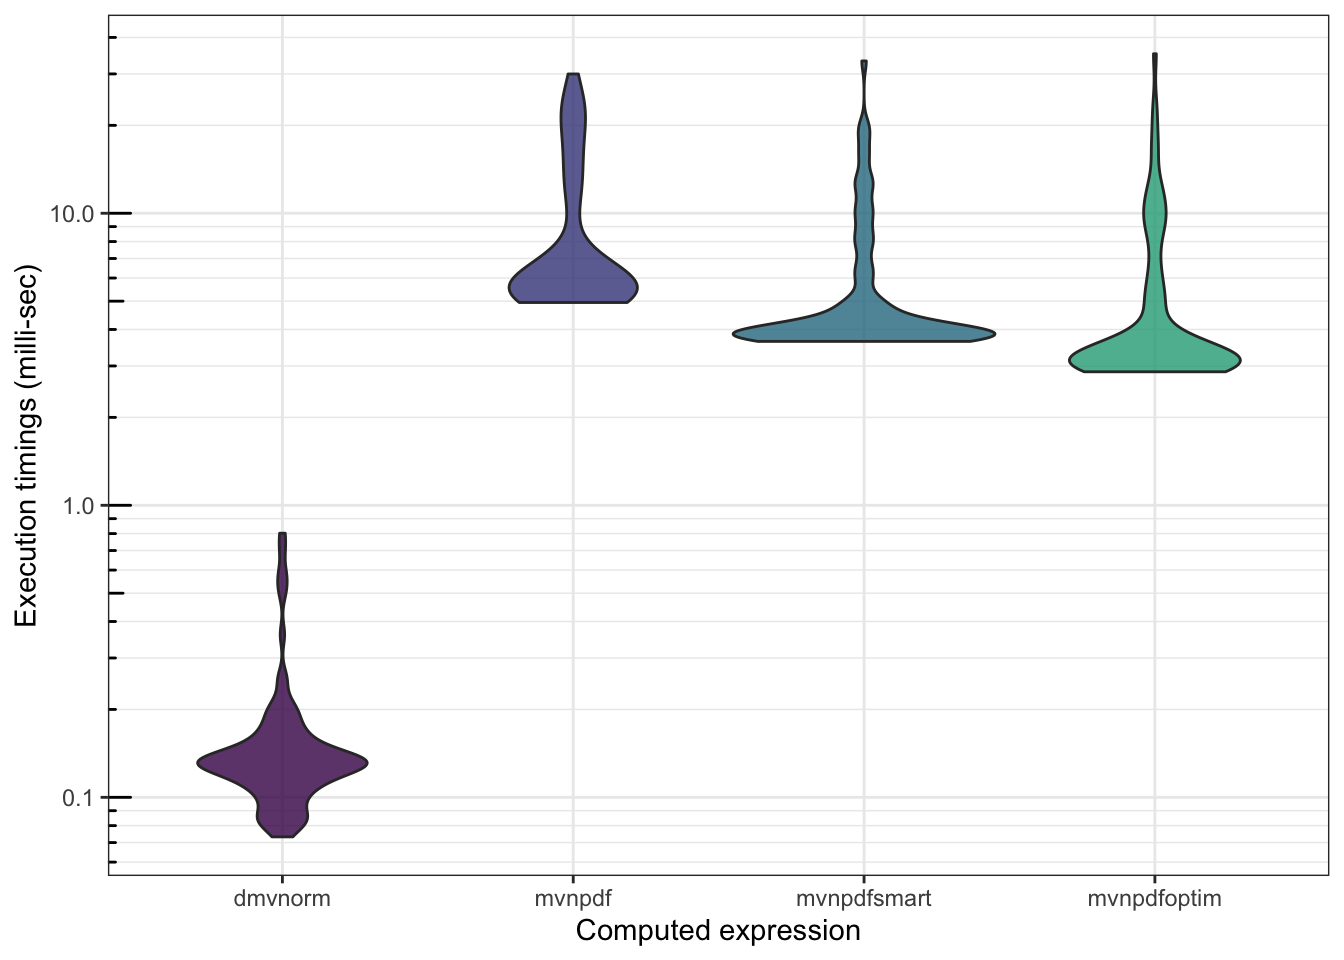
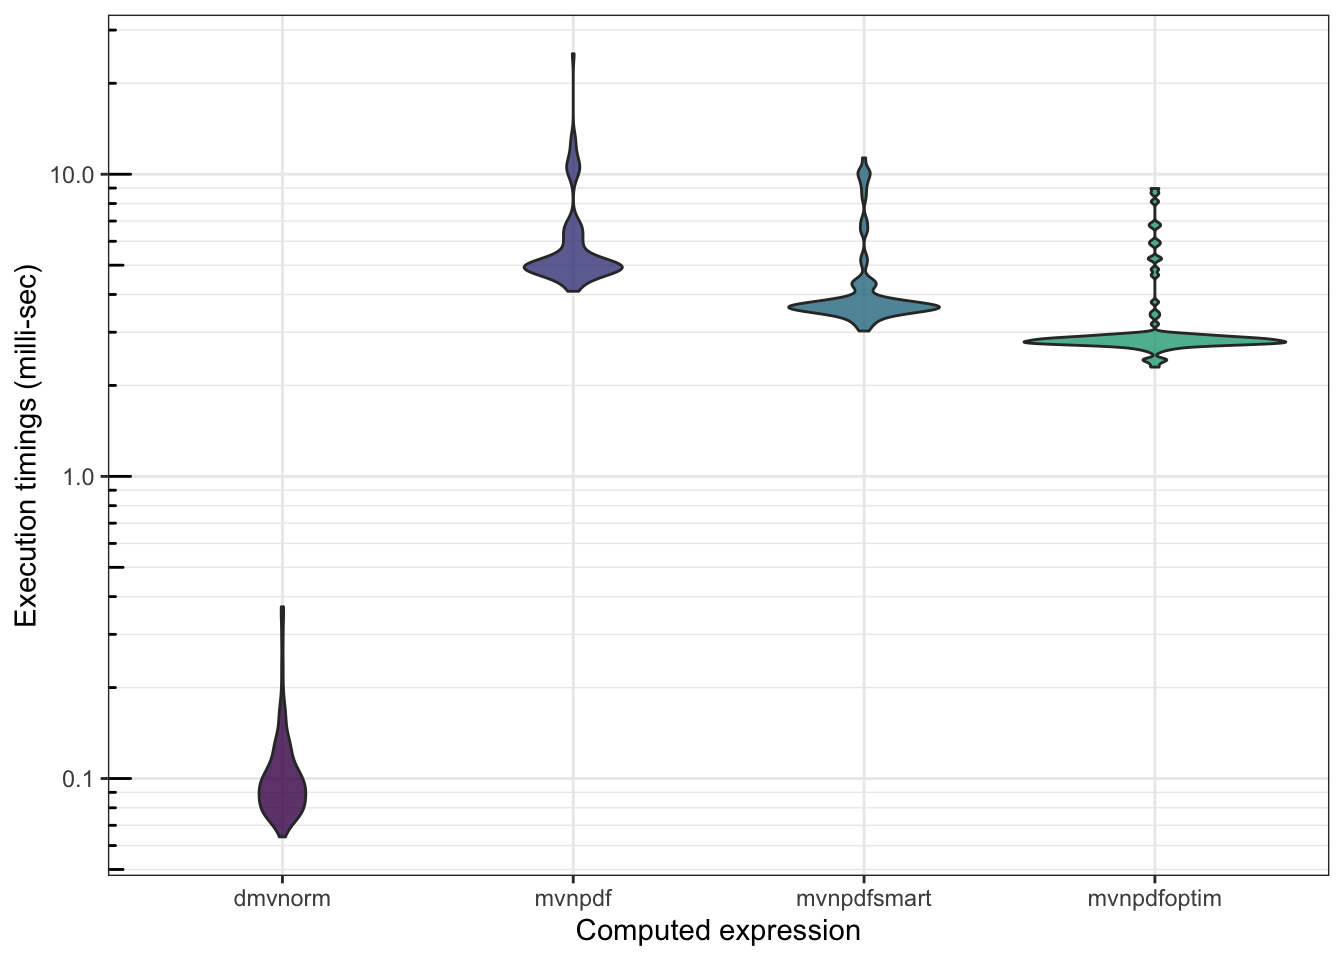
final June 2022

diff --git a/_book/rcpp-or-how-to-easily-embed-c-code-into-a-package.html b/_book/rcpp-or-how-to-easily-embed-c-code-into-a-package.html
@@ -118,17 +118,17 @@ package:</p></li>
 <span class="va">mb</span></code></pre></div>
 <pre><code>## Unit: microseconds
 ##                                                            expr      min
-##              mvtnorm::dmvnorm(matrix(1.96, nrow = n, ncol = 2))   65.124
-##       mvnpdf(x = matrix(1.96, nrow = 2, ncol = n), Log = FALSE) 4385.828
-##  mvnpdfsmart(x = matrix(1.96, nrow = 2, ncol = n), Log = FALSE) 3123.313
-##  mvnpdfoptim(x = matrix(1.96, nrow = 2, ncol = n), Log = FALSE) 2505.921
-##  mvnpdf_invC(x = matrix(1.96, nrow = 2, ncol = n), Log = FALSE) 3199.622
-##         lq      mean    median        uq       max neval
-##    99.4615  194.6067  118.7655   155.223  1212.833   100
-##  5086.8085 8445.4008 5312.9740  6765.887 34013.310   100
-##  3719.0570 5773.8675 3936.7650  4319.208 41610.932   100
-##  3025.0395 5381.2065 3247.7600  7305.590 19374.333   100
-##  3766.4930 6749.5553 3953.5380 10025.012 20069.787   100</code></pre>
+##              mvtnorm::dmvnorm(matrix(1.96, nrow = n, ncol = 2))   71.118
+##       mvnpdf(x = matrix(1.96, nrow = 2, ncol = n), Log = FALSE) 4753.473
+##  mvnpdfsmart(x = matrix(1.96, nrow = 2, ncol = n), Log = FALSE) 3181.776
+##  mvnpdfoptim(x = matrix(1.96, nrow = 2, ncol = n), Log = FALSE) 2617.668
+##  mvnpdf_invC(x = matrix(1.96, nrow = 2, ncol = n), Log = FALSE) 3181.072
+##        lq      mean   median        uq       max neval
+##    86.828  114.8744  100.802  114.7005   438.543   100
+##  5005.557 6122.8779 5102.894 5871.4550 25992.031   100
+##  3689.941 4477.3166 3745.430 3927.6450 13121.594   100
+##  2895.649 3303.7776 2956.511 3096.8575  8617.597   100
+##  3696.435 4223.8946 3771.915 3870.8330 16088.644   100</code></pre>
 <div class="inline-figure"><img src="AdvancedRcourse_dev_perf_files/figure-html/unnamed-chunk-31-1.png" width="672"></div>
 <div class="sourceCode" id="cb31"><pre class="downlit sourceCode r">
 <code class="sourceCode R"><span class="fu">profvis</span><span class="fu">::</span><span class="fu"><a href="https://rdrr.io/pkg/profvis/man/profvis.html">profvis</a></span><span class="op">(</span><span class="fu">mvnpdfoptim</span><span class="op">(</span>x<span class="op">=</span><span class="fu"><a href="https://rdrr.io/r/base/matrix.html">matrix</a></span><span class="op">(</span><span class="fl">1.96</span>, 
@@ -149,7 +149,7 @@ package:</p></li>
 </ol>
 </blockquote>
 <p>You can download our proposal for <code>mvnpdfsmartC.cpp</code> <a href="https://heavyr.borishejblum.science/AdvancedRcourse_dev_perf_files/mvnpdfsmartC.cpp">here</a>.</p>
-<p>For additional (at the cost of code readability), you can have a look at our optimized Armadillo C++ implementation in <a href="https://heavyr.borishejblum.science/AdvancedRcourse_dev_perf_files/mvnpdfoptimC.cpp"><code>mvnpdfoptimC.cpp</code></a>.</p>
+<p>For (relatively small) additional speed gain (at the cost of code readability!), you can have a look at our optimized Armadillo C++ implementation in <a href="https://heavyr.borishejblum.science/AdvancedRcourse_dev_perf_files/mvnpdfoptimC.cpp"><code>mvnpdfoptimC.cpp</code></a>.</p>
 <div class="sourceCode" id="cb32"><pre class="downlit sourceCode r">
 <code class="sourceCode R"><span class="va">n</span> <span class="op">&lt;-</span> <span class="fl">1000</span>
 <span class="va">mb</span> <span class="op">&lt;-</span> <span class="fu"><a href="https://rdrr.io/pkg/microbenchmark/man/microbenchmark.html">microbenchmark</a></span><span class="op">(</span><span class="fu">mvtnorm</span><span class="fu">::</span><span class="fu"><a href="https://rdrr.io/pkg/mvtnorm/man/Mvnorm.html">dmvnorm</a></span><span class="op">(</span><span class="fu"><a href="https://rdrr.io/r/base/matrix.html">matrix</a></span><span class="op">(</span><span class="fl">1.96</span>, nrow <span class="op">=</span> <span class="va">n</span>, ncol <span class="op">=</span> <span class="fl">2</span><span class="op">)</span><span class="op">)</span>,
@@ -170,14 +170,14 @@ package:</p></li>
 ##                                             mvnpdf_invC(x = matrix(1.96, nrow = 2, ncol = n), Log = FALSE)
 ##  mvnpdfsmartC(x = matrix(1.96, nrow = 2, ncol = n), mean = rep(0,      2), varcovM = diag(2), Log = FALSE)
 ##  mvnpdfoptimC(x = matrix(1.96, nrow = 2, ncol = n), mean = rep(0,      2), varcovM = diag(2), Log = FALSE)
-##       min       lq      mean    median        uq       max neval
-##    75.917  110.387  197.9245  124.1960  157.4325  1256.935   100
-##  4931.640 5188.288 9275.1514 5373.7055 7844.4305 77858.099   100
-##  3612.515 3777.602 5501.5053 3972.8825 4712.0445 19561.479   100
-##  2826.213 3020.449 4884.5568 3207.6715 5140.8520 15737.090   100
-##  3607.748 3752.820 5388.6261 3994.1985 4849.5315 23388.501   100
-##    70.730   82.846  124.5476   90.8290  130.6830   691.755   100
-##    58.110   69.123  150.0763   78.3205  109.9820  4509.591   100</code></pre>
+##       min        lq       mean    median       uq       max neval
+##    65.007   88.8815  112.94501  102.7370  119.446   378.734   100
+##  4103.386 4877.7460 6564.95403 5034.1785 5572.334 78768.581   100
+##  2961.631 3590.1065 4469.34607 3730.5595 3884.968 15111.623   100
+##  2309.317 2767.0435 3100.71843 2896.2115 3019.818 10331.393   100
+##  2978.638 3605.9700 4457.68296 3735.8355 4164.860 11121.145   100
+##    67.470   74.8810   89.00683   81.5105   88.122   193.168   100
+##    56.216   60.0030   78.03703   66.3945   72.707   306.386   100</code></pre>
 <div class="inline-figure"><img src="AdvancedRcourse_dev_perf_files/figure-html/unnamed-chunk-34-1.png" width="672"></div>
 <p>Note that <code>Rcpp</code> functions can be used outside of a package architecture thanks to the <code><a href="https://rdrr.io/pkg/Rcpp/man/sourceCpp.html">Rcpp::sourceCpp()</a></code> function. But, as we have seen that it is always desirable to manage all of one’s code inside a package, it is unlikely that you will need this !</p>
 </div>

diff --git a/_book/take-home-messages.html b/_book/take-home-messages.html
@@ -6,14 +6,14 @@
 <meta name="viewport" content="width=device-width, initial-scale=1, shrink-to-fit=no">
 <title>Chapter 7 Take-home message(s) | Advanced  course</title>
 <meta name="author" content="Robin Genuer &amp; Boris Hejblum">
-<meta name="description" content="MAKE PACKAGES use git, at least locally for yourself if needed (i.e. after optimization of code itself), do not be afraid of using Rcpp and/or of parallelizing tour code">
+<meta name="description" content="MAKE PACKAGES! use git, at least locally for yourself if needed (i.e. after optimization of code itself), do not be afraid of using Rcpp and/or of parallelizing your code">
 <meta name="generator" content="bookdown 0.26 with bs4_book()">
 <meta property="og:title" content="Chapter 7 Take-home message(s) | Advanced  course">
 <meta property="og:type" content="book">
-<meta property="og:description" content="MAKE PACKAGES use git, at least locally for yourself if needed (i.e. after optimization of code itself), do not be afraid of using Rcpp and/or of parallelizing tour code">
+<meta property="og:description" content="MAKE PACKAGES! use git, at least locally for yourself if needed (i.e. after optimization of code itself), do not be afraid of using Rcpp and/or of parallelizing your code">
 <meta name="twitter:card" content="summary">
 <meta name="twitter:title" content="Chapter 7 Take-home message(s) | Advanced  course">
-<meta name="twitter:description" content="MAKE PACKAGES use git, at least locally for yourself if needed (i.e. after optimization of code itself), do not be afraid of using Rcpp and/or of parallelizing tour code">
+<meta name="twitter:description" content="MAKE PACKAGES! use git, at least locally for yourself if needed (i.e. after optimization of code itself), do not be afraid of using Rcpp and/or of parallelizing your code">
 <!-- JS --><script src="https://cdnjs.cloudflare.com/ajax/libs/clipboard.js/2.0.6/clipboard.min.js" integrity="sha256-inc5kl9MA1hkeYUt+EC3BhlIgyp/2jDIyBLS6k3UxPI=" crossorigin="anonymous"></script><script src="https://cdnjs.cloudflare.com/ajax/libs/fuse.js/6.4.6/fuse.js" integrity="sha512-zv6Ywkjyktsohkbp9bb45V6tEMoWhzFzXis+LrMehmJZZSys19Yxf1dopHx7WzIKxr5tK2dVcYmaCk2uqdjF4A==" crossorigin="anonymous"></script><script src="https://kit.fontawesome.com/6ecbd6c532.js" crossorigin="anonymous"></script><script src="libs/jquery-3.6.0/jquery-3.6.0.min.js"></script><meta name="viewport" content="width=device-width, initial-scale=1, shrink-to-fit=no">
 <link href="libs/bootstrap-4.6.0/bootstrap.min.css" rel="stylesheet">
 <script src="libs/bootstrap-4.6.0/bootstrap.bundle.min.js"></script><script src="libs/bs3compat-0.3.1/transition.js"></script><script src="libs/bs3compat-0.3.1/tabs.js"></script><script src="libs/bs3compat-0.3.1/bs3compat.js"></script><link href="libs/bs4_book-1.0.0/bs4_book.css" rel="stylesheet">
@@ -65,9 +65,9 @@
 <span class="header-section-number">7</span> <em>Take-home message(s)</em><a class="anchor" aria-label="anchor" href="#take-home-messages"><i class="fas fa-link"></i></a>
 </h1>
 <ol style="list-style-type: decimal">
-<li><p><strong>MAKE PACKAGES</strong></p></li>
+<li><p><strong>MAKE PACKAGES!</strong></p></li>
 <li><p>use <code>git</code>, at least locally for yourself</p></li>
-<li><p><strong>if needed</strong> (i.e. after optimization of <svg aria-hidden="true" role="img" viewbox="0 0 581 512" style="height:1em;width:1.13em;vertical-align:-0.125em;margin-left:auto;margin-right:auto;font-size:inherit;fill:currentColor;overflow:visible;position:relative;"><path d="M581 226.6C581 119.1 450.9 32 290.5 32S0 119.1 0 226.6C0 322.4 103.3 402 239.4 418.1V480h99.1v-61.5c24.3-2.7 47.6-7.4 69.4-13.9L448 480h112l-67.4-113.7c54.5-35.4 88.4-84.9 88.4-139.7zm-466.8 14.5c0-73.5 98.9-133 220.8-133s211.9 40.7 211.9 133c0 50.1-26.5 85-70.3 106.4-2.4-1.6-4.7-2.9-6.4-3.7-10.2-5.2-27.8-10.5-27.8-10.5s86.6-6.4 86.6-92.7-90.6-87.9-90.6-87.9h-199V361c-74.1-21.5-125.2-67.1-125.2-119.9zm225.1 38.3v-55.6c57.8 0 87.8-6.8 87.8 27.3 0 36.5-38.2 28.3-87.8 28.3zm-.9 72.5H365c10.8 0 18.9 11.7 24 19.2-16.1 1.9-33 2.8-50.6 2.9v-22.1z"></path></svg> code itself), do not be afraid of using <code>Rcpp</code> and/or of parallelizing tour code</p></li>
+<li><p><strong>if needed</strong> (i.e. after optimization of <svg aria-hidden="true" role="img" viewbox="0 0 581 512" style="height:1em;width:1.13em;vertical-align:-0.125em;margin-left:auto;margin-right:auto;font-size:inherit;fill:currentColor;overflow:visible;position:relative;"><path d="M581 226.6C581 119.1 450.9 32 290.5 32S0 119.1 0 226.6C0 322.4 103.3 402 239.4 418.1V480h99.1v-61.5c24.3-2.7 47.6-7.4 69.4-13.9L448 480h112l-67.4-113.7c54.5-35.4 88.4-84.9 88.4-139.7zm-466.8 14.5c0-73.5 98.9-133 220.8-133s211.9 40.7 211.9 133c0 50.1-26.5 85-70.3 106.4-2.4-1.6-4.7-2.9-6.4-3.7-10.2-5.2-27.8-10.5-27.8-10.5s86.6-6.4 86.6-92.7-90.6-87.9-90.6-87.9h-199V361c-74.1-21.5-125.2-67.1-125.2-119.9zm225.1 38.3v-55.6c57.8 0 87.8-6.8 87.8 27.3 0 36.5-38.2 28.3-87.8 28.3zm-.9 72.5H365c10.8 0 18.9 11.7 24 19.2-16.1 1.9-33 2.8-50.6 2.9v-22.1z"></path></svg> code itself), do not be afraid of using <code>Rcpp</code> and/or of parallelizing your code</p></li>
 </ol>
 </div>
   <div class="chapter-nav">

diff --git a/_book/profiling-code.html b/_book/profiling-code.html
@@ -91,11 +91,11 @@
 <span class="va">mb</span></code></pre></div>
 <pre><code>## Unit: milliseconds
 ##                                                            expr      min
-##       mvnpdf(x = matrix(1.96, nrow = 2, ncol = n), Log = FALSE) 4.978296
-##  mvnpdfsmart(x = matrix(1.96, nrow = 2, ncol = n), Log = FALSE) 3.632696
+##       mvnpdf(x = matrix(1.96, nrow = 2, ncol = n), Log = FALSE) 4.406694
+##  mvnpdfsmart(x = matrix(1.96, nrow = 2, ncol = n), Log = FALSE) 3.154306
 ##        lq     mean   median       uq      max neval
-##  5.326261 7.820097 5.985543 7.523787 53.29416   100
-##  3.836824 5.104701 3.947392 4.695637 19.00220   100</code></pre>
+##  5.062155 6.806691 5.311622 7.151560 29.17964   100
+##  3.729393 4.605849 3.863118 4.842013 13.70084   100</code></pre>
 <div class="inline-figure"><img src="AdvancedRcourse_dev_perf_files/figure-html/unnamed-chunk-20-1.png" width="672"></div>
 <p>We can also check whether <code>mvnpdfsmart</code> becomes competitive with <code><a href="https://rdrr.io/pkg/mvtnorm/man/Mvnorm.html">dmvnorm()</a></code>:</p>
 <div class="sourceCode" id="cb21"><pre class="downlit sourceCode r">
@@ -107,13 +107,13 @@
 <span class="va">mb</span></code></pre></div>
 <pre><code>## Unit: microseconds
 ##                                                            expr      min
-##              mvtnorm::dmvnorm(matrix(1.96, nrow = n, ncol = 2))   74.973
-##       mvnpdf(x = matrix(1.96, nrow = 2, ncol = n), Log = FALSE) 4903.411
-##  mvnpdfsmart(x = matrix(1.96, nrow = 2, ncol = n), Log = FALSE) 3579.980
-##        lq      mean    median       uq       max neval
-##    95.867  133.5852  118.2385  146.085   531.132   100
-##  5142.553 7894.8026 5439.2860 6427.504 45985.044   100
-##  3703.761 4560.7816 3817.9840 4396.846 29383.089   100</code></pre>
+##              mvtnorm::dmvnorm(matrix(1.96, nrow = n, ncol = 2))   65.073
+##       mvnpdf(x = matrix(1.96, nrow = 2, ncol = n), Log = FALSE) 4607.749
+##  mvnpdfsmart(x = matrix(1.96, nrow = 2, ncol = n), Log = FALSE) 3494.212
+##         lq      mean    median       uq       max neval
+##    83.6855  203.7108  105.3095  132.089  8557.892   100
+##  5039.8190 6754.9129 5349.7920 7087.722 29669.507   100
+##  3688.6580 4232.7925 3798.0865 4302.836  9536.929   100</code></pre>
 <div class="inline-figure"><img src="AdvancedRcourse_dev_perf_files/figure-html/unnamed-chunk-22-1.png" width="672"></div>
 <p>There is still work to be done…</p>
 </div>
@@ -138,15 +138,15 @@
 <span class="va">mb</span></code></pre></div>
 <pre><code>## Unit: microseconds
 ##                                                            expr      min
-##              mvtnorm::dmvnorm(matrix(1.96, nrow = n, ncol = 2))   73.215
-##       mvnpdf(x = matrix(1.96, nrow = 2, ncol = n), Log = FALSE) 4947.441
-##  mvnpdfsmart(x = matrix(1.96, nrow = 2, ncol = n), Log = FALSE) 3641.029
-##  mvnpdfoptim(x = matrix(1.96, nrow = 2, ncol = n), Log = FALSE) 2865.195
+##              mvtnorm::dmvnorm(matrix(1.96, nrow = n, ncol = 2))   64.100
+##       mvnpdf(x = matrix(1.96, nrow = 2, ncol = n), Log = FALSE) 4098.936
+##  mvnpdfsmart(x = matrix(1.96, nrow = 2, ncol = n), Log = FALSE) 3027.929
+##  mvnpdfoptim(x = matrix(1.96, nrow = 2, ncol = n), Log = FALSE) 2299.950
 ##        lq      mean    median        uq       max neval
-##   112.040  159.5284  131.6665   152.115   802.477   100
-##  5292.811 9082.1799 5899.0315 10619.879 29989.205   100
-##  3790.613 5902.9247 3975.2385  5122.364 33229.950   100
-##  3025.960 5268.3439 3242.9435  4918.802 35166.196   100</code></pre>
+##    81.245  108.1342   94.3175  112.2795   370.222   100
+##  4856.810 6146.6704 4989.6730 6098.7325 25046.878   100
+##  3564.256 4391.0046 3653.1375 4126.4930 11326.990   100
+##  2756.311 3215.7854 2819.8390 2912.5430  8971.465   100</code></pre>
 <div class="inline-figure"><img src="AdvancedRcourse_dev_perf_files/figure-html/unnamed-chunk-25-1.png" width="672"></div>
 <p>Finally, we can profile tthe <code><a href="https://rdrr.io/pkg/mvtnorm/man/Mvnorm.html">dmvnorm()</a></code> function:</p>
 <div class="sourceCode" id="cb26"><pre class="downlit sourceCode r">

diff --git a/_book/measuring-and-comparing-execution-times.html b/_book/measuring-and-comparing-execution-times.html
@@ -81,7 +81,7 @@
 <code class="sourceCode R"><span class="va">obs</span> <span class="op">&lt;-</span> <span class="fu"><a href="https://rdrr.io/r/base/rep.html">rep</a></span><span class="op">(</span><span class="fl">1.96</span>, <span class="fl">2</span><span class="op">)</span>
 <span class="fu"><a href="https://rdrr.io/r/base/system.time.html">system.time</a></span><span class="op">(</span><span class="fu">mvtnorm</span><span class="fu">::</span><span class="fu"><a href="https://rdrr.io/pkg/mvtnorm/man/Mvnorm.html">dmvnorm</a></span><span class="op">(</span><span class="va">obs</span><span class="op">)</span><span class="op">)</span></code></pre></div>
 <pre><code>## utilisateur     système      écoulé 
-##       0.009       0.007       0.026</code></pre>
+##       0.008       0.005       0.019</code></pre>
 <p>We could say that we have to increase the complexity of our calculation, but there is a better way: use the <code>microbenchmark</code> package !</p>
 </div>
 <div id="compare-execution-timings-with-microbenchmark." class="section level2" number="3.2">
@@ -97,12 +97,12 @@
                      times <span class="op">=</span> <span class="fl">1000</span><span class="op">)</span>
 <span class="va">mb</span></code></pre></div>
 <pre><code>## Unit: microseconds
-##                                           expr    min      lq     mean  median
-##                 mvtnorm::dmvnorm(rep(1.96, 2)) 38.541 54.0815 84.56644 67.4135
-##  mvnpdf(x = matrix(rep(1.96, 2)), Log = FALSE) 35.913 50.6945 88.76405 60.6305
+##                                           expr    min     lq     mean  median
+##                 mvtnorm::dmvnorm(rep(1.96, 2)) 30.381 34.071 45.10932 37.0820
+##  mvnpdf(x = matrix(rep(1.96, 2)), Log = FALSE) 28.213 31.847 39.93715 34.2815
 ##       uq      max neval
-##  90.1445  798.391  1000
-##  82.7245 8728.613  1000</code></pre>
+##  45.0880 2016.936  1000
+##  41.9385  253.570  1000</code></pre>
 <div class="inline-figure"><img src="AdvancedRcourse_dev_perf_files/figure-html/unnamed-chunk-13-1.png" width="672"></div>
 <p>Both <code>mvnpdf()</code> and <code>dmnvorm()</code> functions being able to take a matrix as input, we can also compare their timings in this setting:</p>
 <div class="sourceCode" id="cb15"><pre class="downlit sourceCode r">
@@ -114,11 +114,11 @@
 <span class="va">mb</span></code></pre></div>
 <pre><code>## Unit: microseconds
 ##                                                       expr     min       lq
-##         mvtnorm::dmvnorm(matrix(1.96, nrow = n, ncol = 2))  50.458  61.2235
-##  mvnpdf(x = matrix(1.96, nrow = 2, ncol = n), Log = FALSE) 507.831 545.9085
-##      mean   median       uq     max neval
-##   70.1771  66.4345  76.0815 198.892   100
-##  595.7492 597.9885 626.8220 734.035   100</code></pre>
+##         mvtnorm::dmvnorm(matrix(1.96, nrow = n, ncol = 2))  54.301  63.1360
+##  mvnpdf(x = matrix(1.96, nrow = 2, ncol = n), Log = FALSE) 532.957 594.6475
+##      mean  median       uq      max neval
+##  105.7365  73.882 103.6795  429.853   100
+##  731.0320 646.768 742.3830 1915.013   100</code></pre>
 <div class="inline-figure"><img src="AdvancedRcourse_dev_perf_files/figure-html/unnamed-chunk-15-1.png" width="672"></div>
 <p>Something happened… And we will find out what exactly is causing this issue in what comes next.</p>
 

diff --git a/_book/code-parallelization.html b/_book/code-parallelization.html
@@ -141,7 +141,7 @@
 <span class="op">}</span>
 <span class="fu"><a href="https://rdrr.io/r/base/system.time.html">system.time</a></span><span class="op">(</span><span class="fu">colmedian_apply</span><span class="op">(</span><span class="va">x</span><span class="op">)</span><span class="op">)</span></code></pre></div>
 <pre><code>## utilisateur     système      écoulé 
-##       3.959       0.034       4.017</code></pre>
+##       3.021       0.005       3.028</code></pre>
 <p>In reality, a (good) <code>for</code> loop is no slower – provided it is nicely programmed:</p>
 <div class="sourceCode" id="cb39"><pre class="downlit sourceCode r">
 <code class="sourceCode R"><span class="va">colmedian_for</span> <span class="op">&lt;-</span> <span class="kw">function</span><span class="op">(</span><span class="va">x</span><span class="op">)</span><span class="op">{</span>
@@ -153,7 +153,7 @@
 <span class="op">}</span>
 <span class="fu"><a href="https://rdrr.io/r/base/system.time.html">system.time</a></span><span class="op">(</span><span class="fu">colmedian_for</span><span class="op">(</span><span class="va">x</span><span class="op">)</span><span class="op">)</span></code></pre></div>
 <pre><code>## utilisateur     système      écoulé 
-##       3.242       0.014       3.269</code></pre>
+##       2.801       0.002       2.805</code></pre>
 <blockquote>
 <p>👉 <strong><em>Your turn !</em></strong>
 Try to further improve this computation time through parallelizing your code for each of the 100,000 variables. Is there a gain in computation time?</p>
